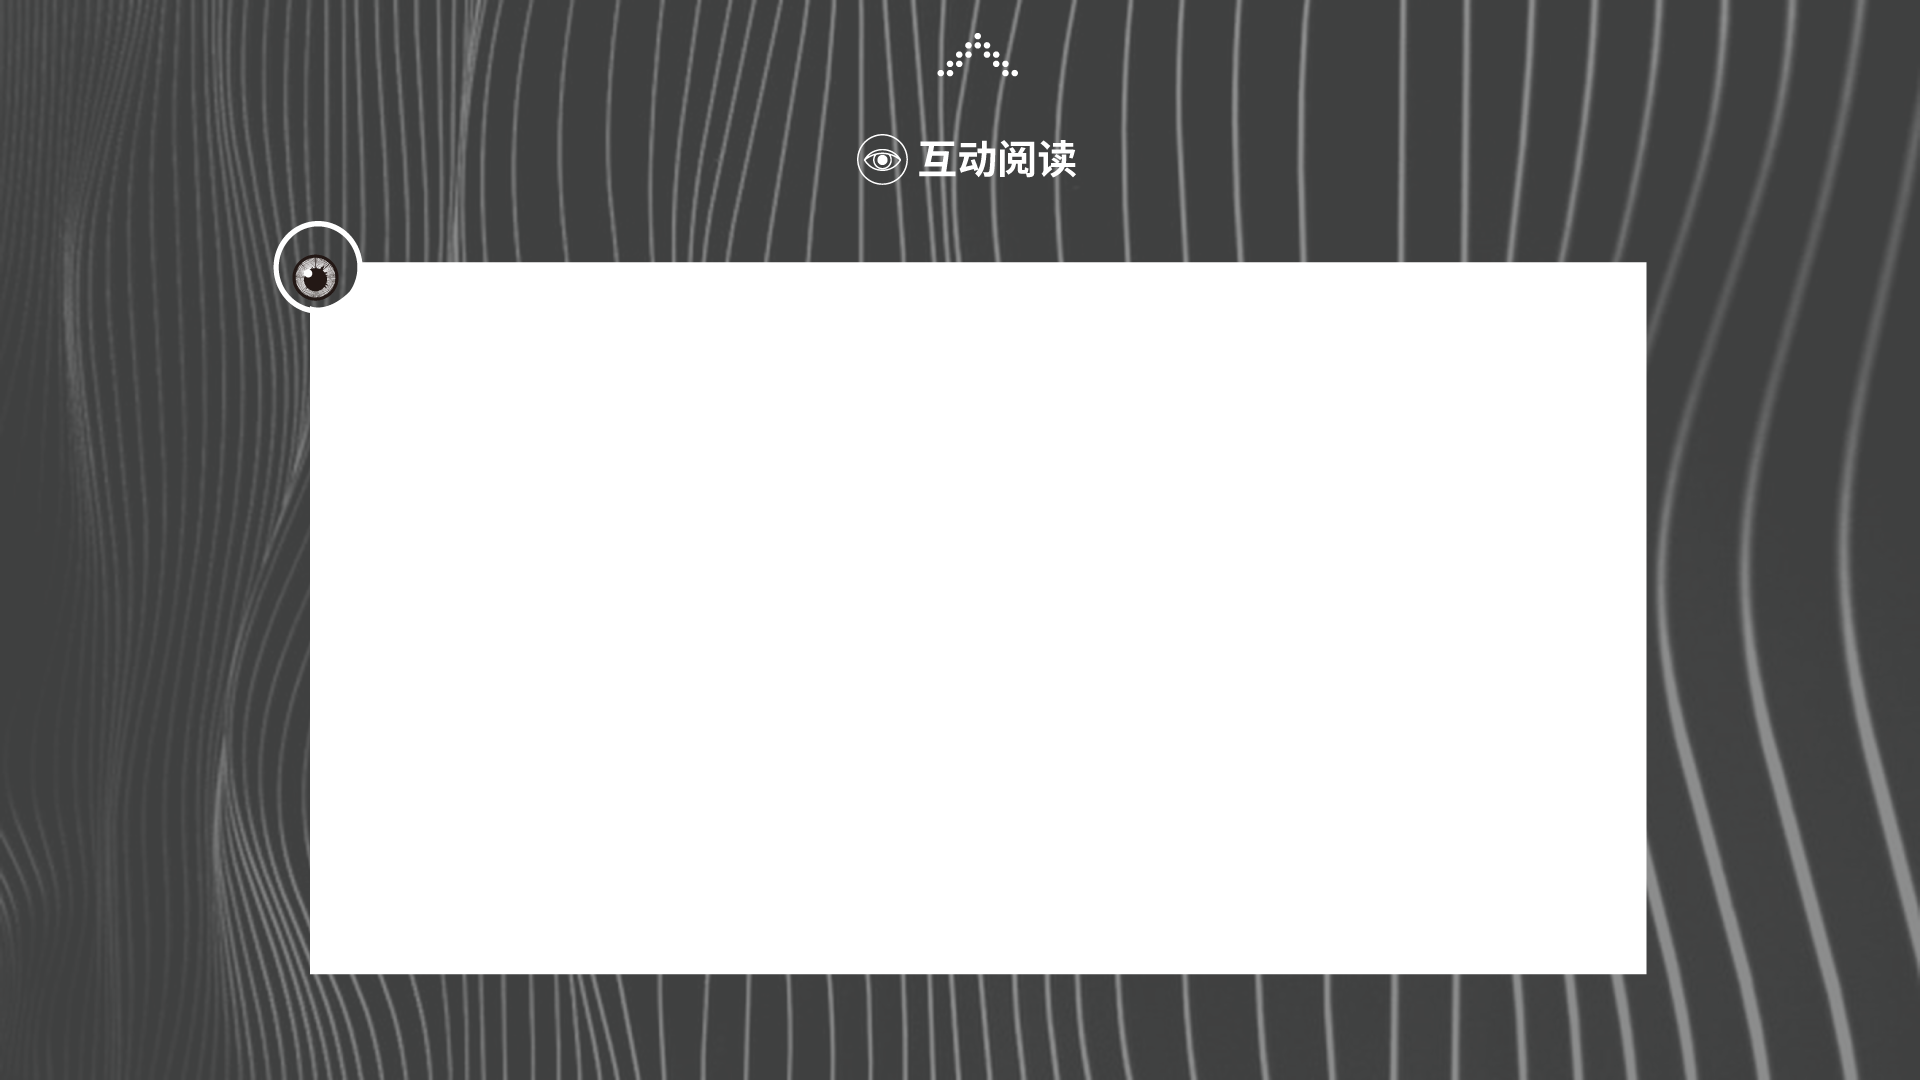
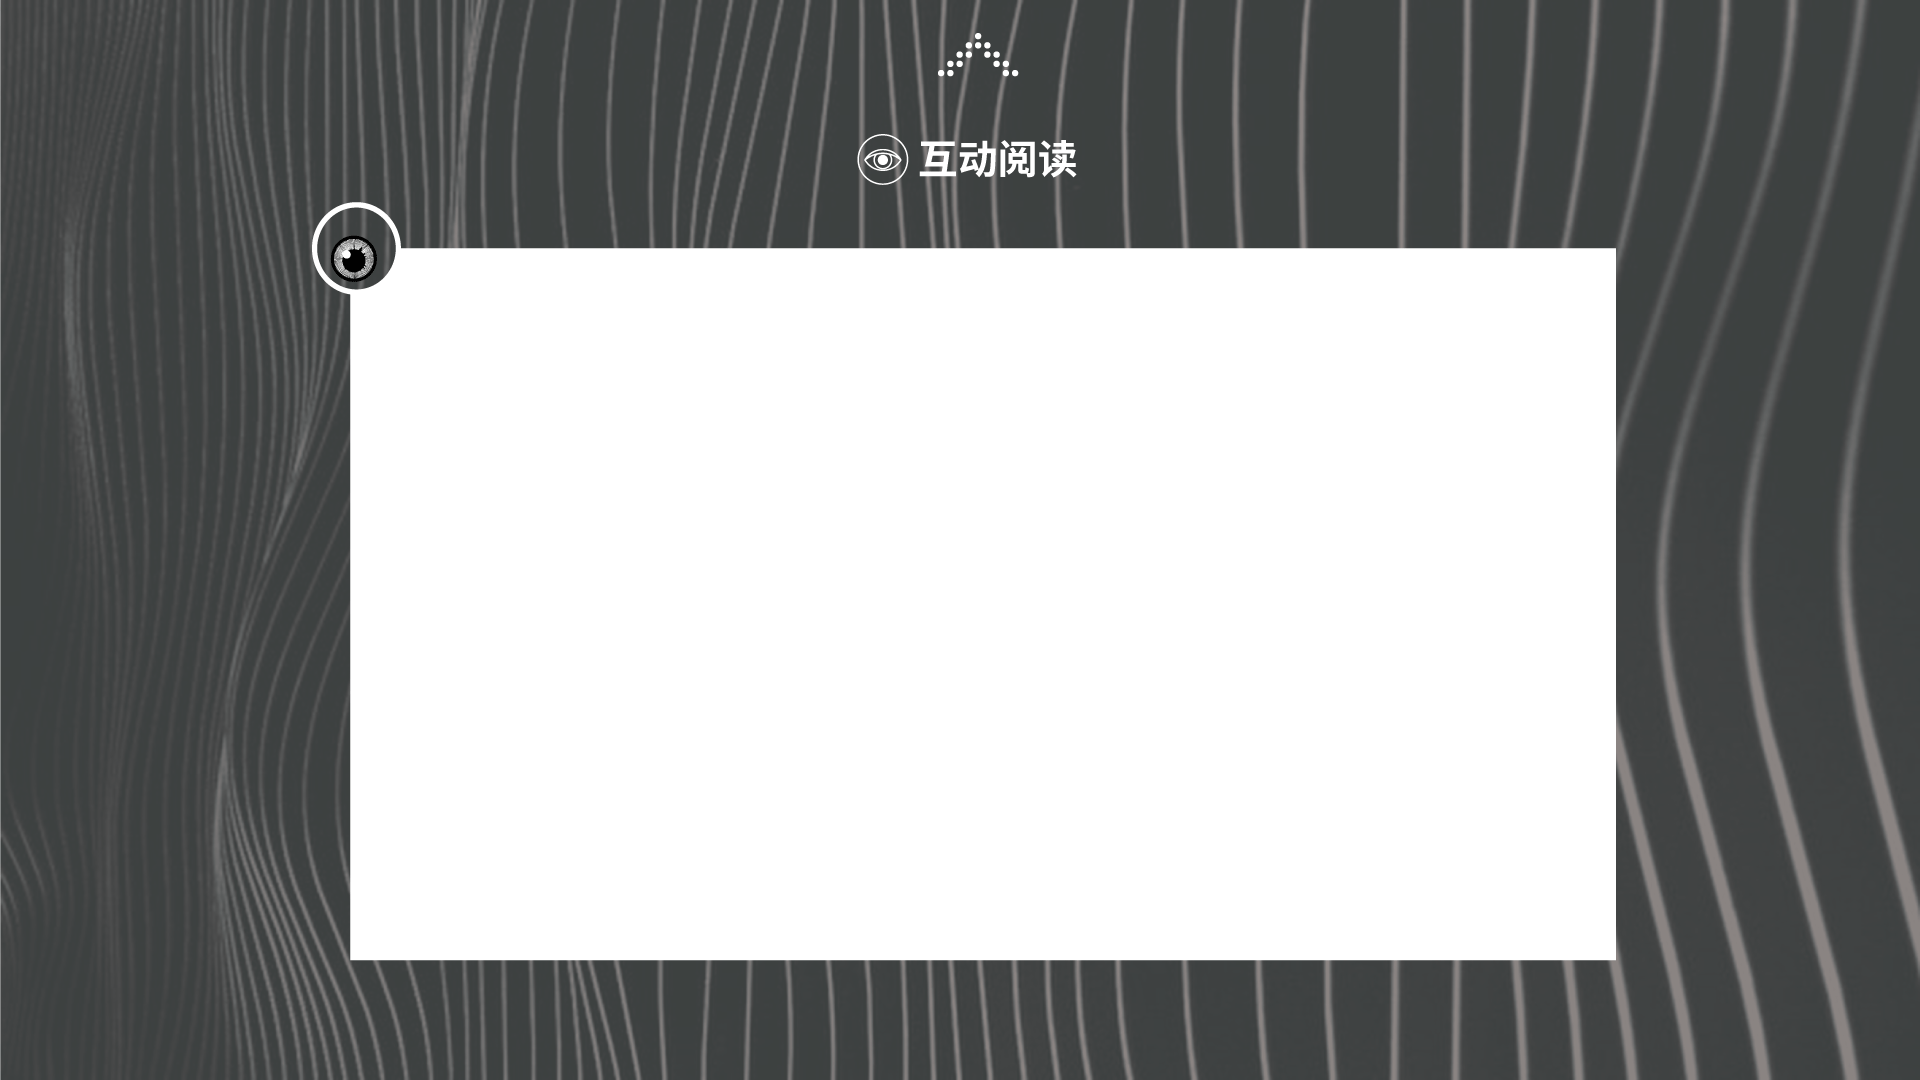
fixed several bugs

Changed region(s): [[0.125, 0.1833, 0.875, 0.9167], [0.5, 0.1222, 0.5625, 0.1528], [0.4375, 0.1222, 0.4688, 0.1528]]

diff --git a/reading_thelittleprince_video.html b/reading_thelittleprince_video.html
@@ -4,13 +4,13 @@
   	<meta charset="utf-8" />
   	<meta name="viewport" content="width=device-width, initial-scale=1">
   	<link rel="stylesheet" href="css/default.css">
-  	<link rel="stylesheet" href="css/flux_need.css">
+  	<!-- <link rel="stylesheet" href="css/flux_need.css"> -->
   	<style type="text/css">
 	html {
 		background: url(img/reading_thelittleprince_video.png);
 		background-repeat: no-repeat;
 	}
-	.debug {
+	#debug {
 		opacity: .5;
 		background-color: blue;
 	}
@@ -19,11 +19,11 @@
 		overflow-y:hidden;
 	}
 	.watch {
-		width: 1265px;
-		height: 712px;
+		width: 1267px;
+		height: 713px;
 		position: absolute;
-		left: 350px;
-		top: 262px;
+		left: 349px;
+		top: 248px;
 	}
 	#back {
 		position: absolute;
@@ -32,6 +32,11 @@
 		top: 33px;
 		height: 50px;
 	}
+	#eye {
+		position: absolute;
+		left: 349px;
+		top: 245px;
+	}
 	</style>
 </head>
 
@@ -39,6 +44,7 @@
 	<a href="reading_thelittleprince.html"><div id="back"></div></a>
 
 	<video src="" class="watch" autoplay></video>
+	<img src="img/the_eye.png" alt="" id="eye">
 
 	<script src="js/jquery.js"></script>
 	<script src="js/hammer.min.js"></script>

diff --git a/reading_history_read.html b/reading_history_read.html
@@ -31,7 +31,7 @@
 		<img src="img/reading_history_read_page3.png" alt="" />
 		<img src="img/reading_history_read_page4.png" alt="" />
 	</div>
-	<a href="reading_history.html"><div id="back" class="debug"></div></a>
+	<a href="reading_history.html"><div id="back"></div></a>
 
 	<script src="js/jquery.js"></script>
 	<script src="js/hammer.min.js"></script>
@@ -47,16 +47,22 @@
 			});
 
 			var hammertime = new Hammer($("#slider").get(0));
+			hammertime.get('swipe').set({ direction: Hammer.DIRECTION_ALL });
 			hammertime.on('swipeleft', function() {
 				window.myFlux.next(random_select(effects_next));
 			});
 			hammertime.on('swiperight', function() {
 				window.myFlux.prev(random_select(effects_prev));
 			});
+
+			hammertime.on('swipedown', function() {
+				window.location.href = "reading_history.html";
+			});
 		});
 
 		function random_select(array) {
-			return array[Math.floor(Math.random()*array.length)]
+			return 'blocks';
+			// return array[Math.floor(Math.random()*array.length)]
 		}
 	</script>
 </body>

diff --git a/reading_thelittleprince.html b/reading_thelittleprince.html
@@ -27,11 +27,22 @@
 		width: 182px;
 		height: 45px;
 	}
+	.all { width: 1920px;height: 1080px; }
 	</style>
 </head>
 
 <body>
 	<a href="reading_thelittleprince_video.html"><div class="read"></div></a>
 	<a href="reading_thelittleprince_buy.html"><div class="buy"></div></a>
+
+	<div class="all"></div>	
+	<script src="js/hammer.min.js"></script>
+	<script>
+		var hammertime = new Hammer(document.querySelector('.all'));
+		hammertime.get('swipe').set({ direction: Hammer.DIRECTION_ALL });
+		hammertime.on('swipedown', function() {
+			window.location.href = "index.html";
+		});
+	</script>
 </body>
 </html>

diff --git a/reading_history.html b/reading_history.html
@@ -27,11 +27,21 @@
 		width: 182px;
 		height: 45px;
 	}
+	.all { width: 1920px;height: 1080px; }
 	</style>
 </head>
 
 <body>
 	<a href="reading_history_read.html"><div class="read"></div></a>
 	<a href="reading_history_buy.html"><div class="buy"></div></a>
+	<div class="all"></div>
+	<script src="js/hammer.min.js"></script>
+	<script>
+		var hammertime = new Hammer(document.querySelector('.all'));
+		hammertime.get('swipe').set({ direction: Hammer.DIRECTION_ALL });
+		hammertime.on('swipedown', function() {
+			window.location.href = "index.html";
+		});
+	</script>
 </body>
 </html>

diff --git a/reading_scanning.html b/reading_scanning.html
@@ -32,6 +32,9 @@
 	</div>
 
 	<script>
+		document.querySelector('body').onclick = function() {
+			window.location.href = "reading_history.html";
+		}
 		setTimeout(function() {
 			window.location.href = "reading_thelittleprince.html";
 		}, 3000);

diff --git a/secondhand_searchresult.html b/secondhand_searchresult.html
@@ -22,7 +22,7 @@
 	}
 	#bookchose {
 		position: absolute;
-		left: 975px;
+		left: 95px;
 		top: 258px;
 		height: 336px;
 		width: 848px;
